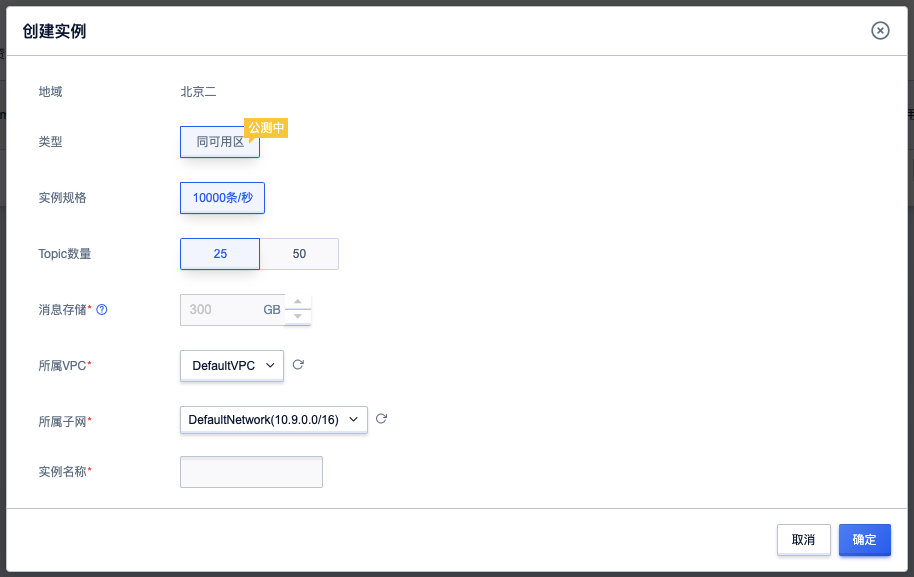
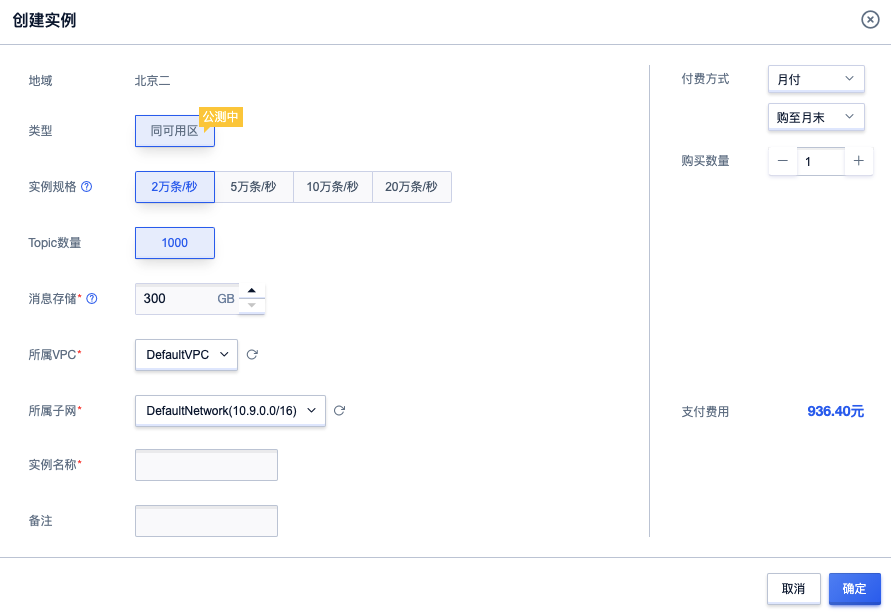
增加计费相关

diff --git a/price/index.md b/price/index.md
@@ -1,3 +1,36 @@
 # 产品定价
 
-公测期间暂不收取费用。
+##  计费项
+目前URocketMQ按照基础规格与额外存储进行计费。
+
+| 计费项   | 计费说明                                                 |
+| -------- | -------------------------------------------------------- |
+| 基础规格 | 基础规格有指定的TPS与对应最低的存储组成。                |
+| 额外存储 | 在基础规格存储技术上，用户在创建实例时可以按需增加存储。 |
+
+
+##  计费模式
+
+当前支持预付费模式，包括按年、按月、按时付费。
+
+## 计费价格
+
+计费价格包括基础规格价格和存储价格，各个地域之间价格会有所差异，具体如下：
+
+### 基础规格价格
+ 基础规格有指定的TPS与对应最低的存储组成。
+
+| TPS(条/秒) | 存储(GB) | 地域               | 价格（元/月） |
+| ---------- | -------- | ------------------ | ------------- |
+| 2万        | 300      | 北京二、上海、广州 | 1200          |
+| 5万        | 700      | 北京二、上海、广州 | 2200          |
+| 10万       | 1500     | 北京二、上海、广州 | 5000          |
+| 20万       | 2000     | 北京二、上海、广州 | 10000         |
+
+### 存储价格
+
+在基础规格存储技术上，用户在创建实例时可以按需增加存储，底层实际为多副本存储。
+
+| 价格(元/GB/月) | 地域               |      |
+| -------------- | ------------------ | ---- |
+| 1.32           | 北京二、上海、广州 |      |

diff --git a/capacity/index.md b/capacity/index.md
@@ -9,4 +9,4 @@ URocketMQ核心指标TPS（每秒处理消息数）计算规则如下：
 1. 消息平均大小1KB，每秒同时生产与消费的消息分别为5000TPS与5000，则总TPS为1*(5000+5000)=10000
 2. 消息平均大小2KB，每秒同时生产与消费的消息分别为5000TPS与5000，则总TPS为2*(5000+5000)=20000
 
-公测期间仅提供10000TPS规格。
+当前提供2万TPS、5万TPS、10万TPS、20万TPS规格，如有更高规格需求，可联系客户经理。
